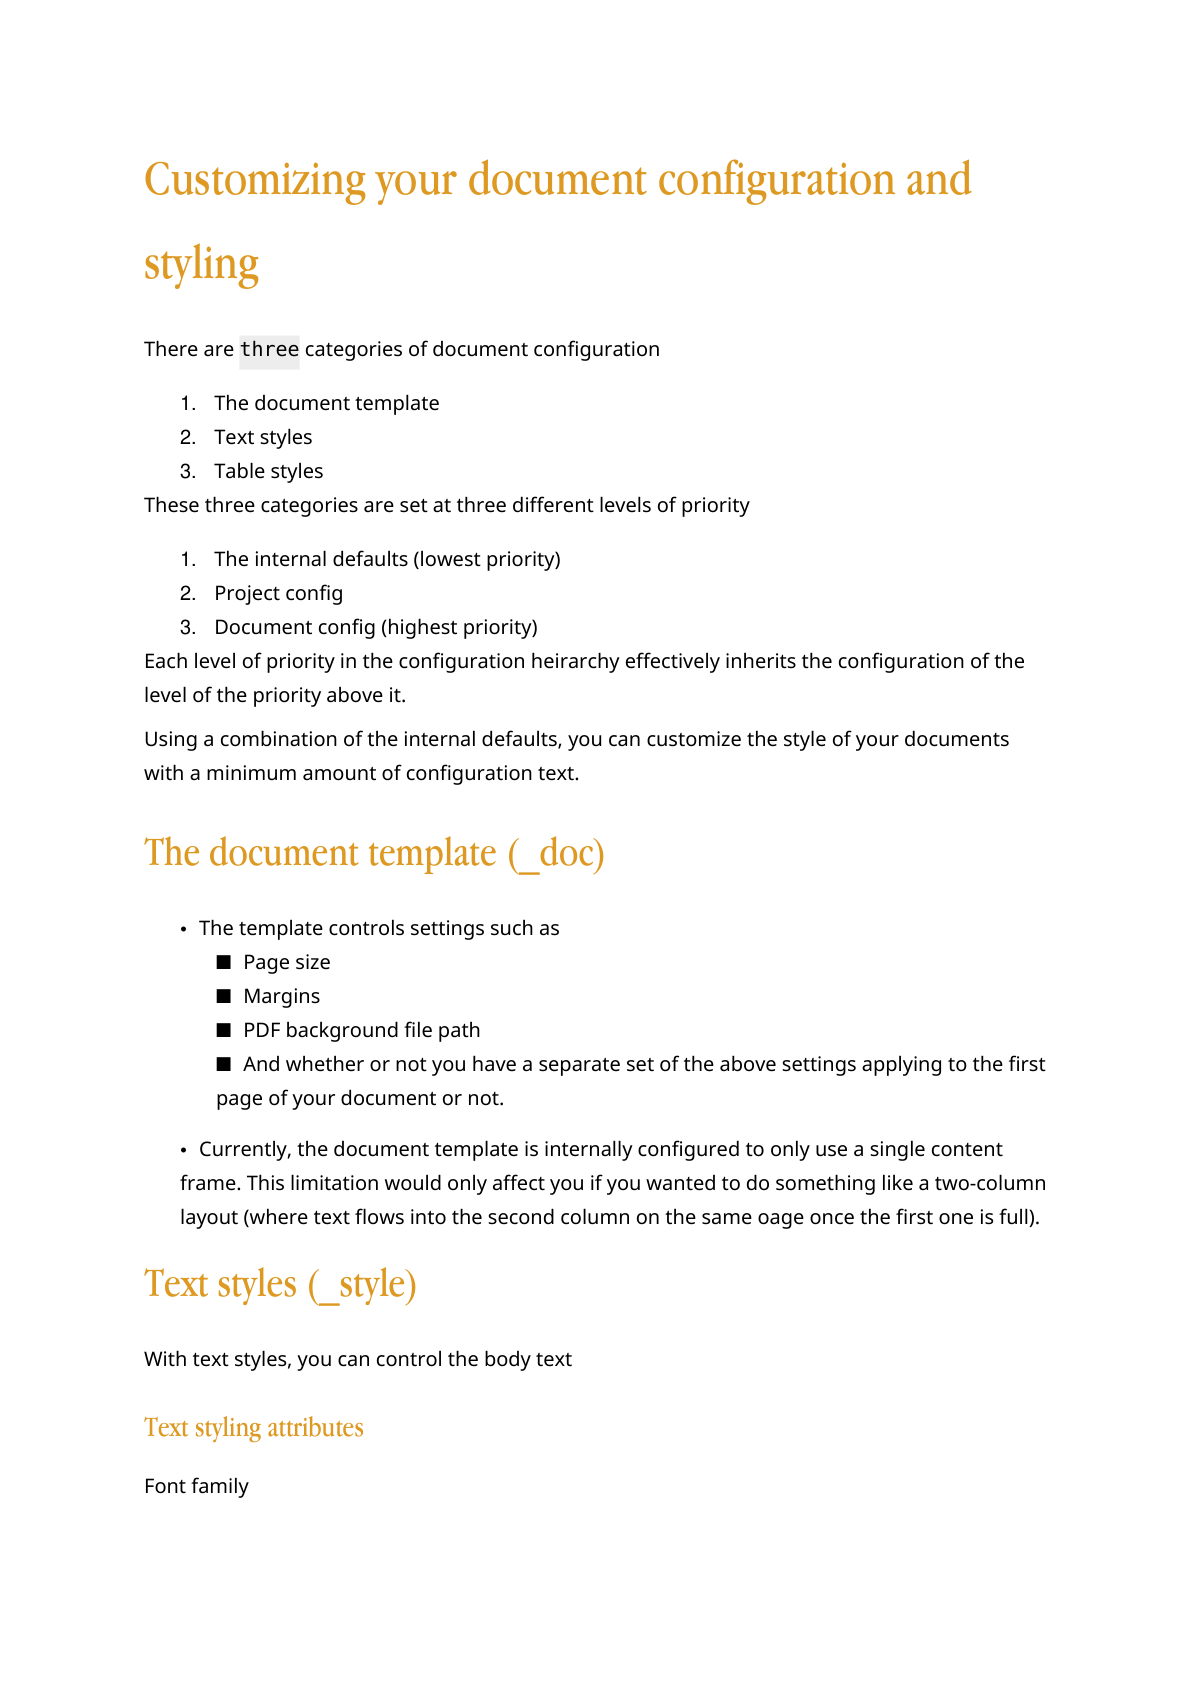
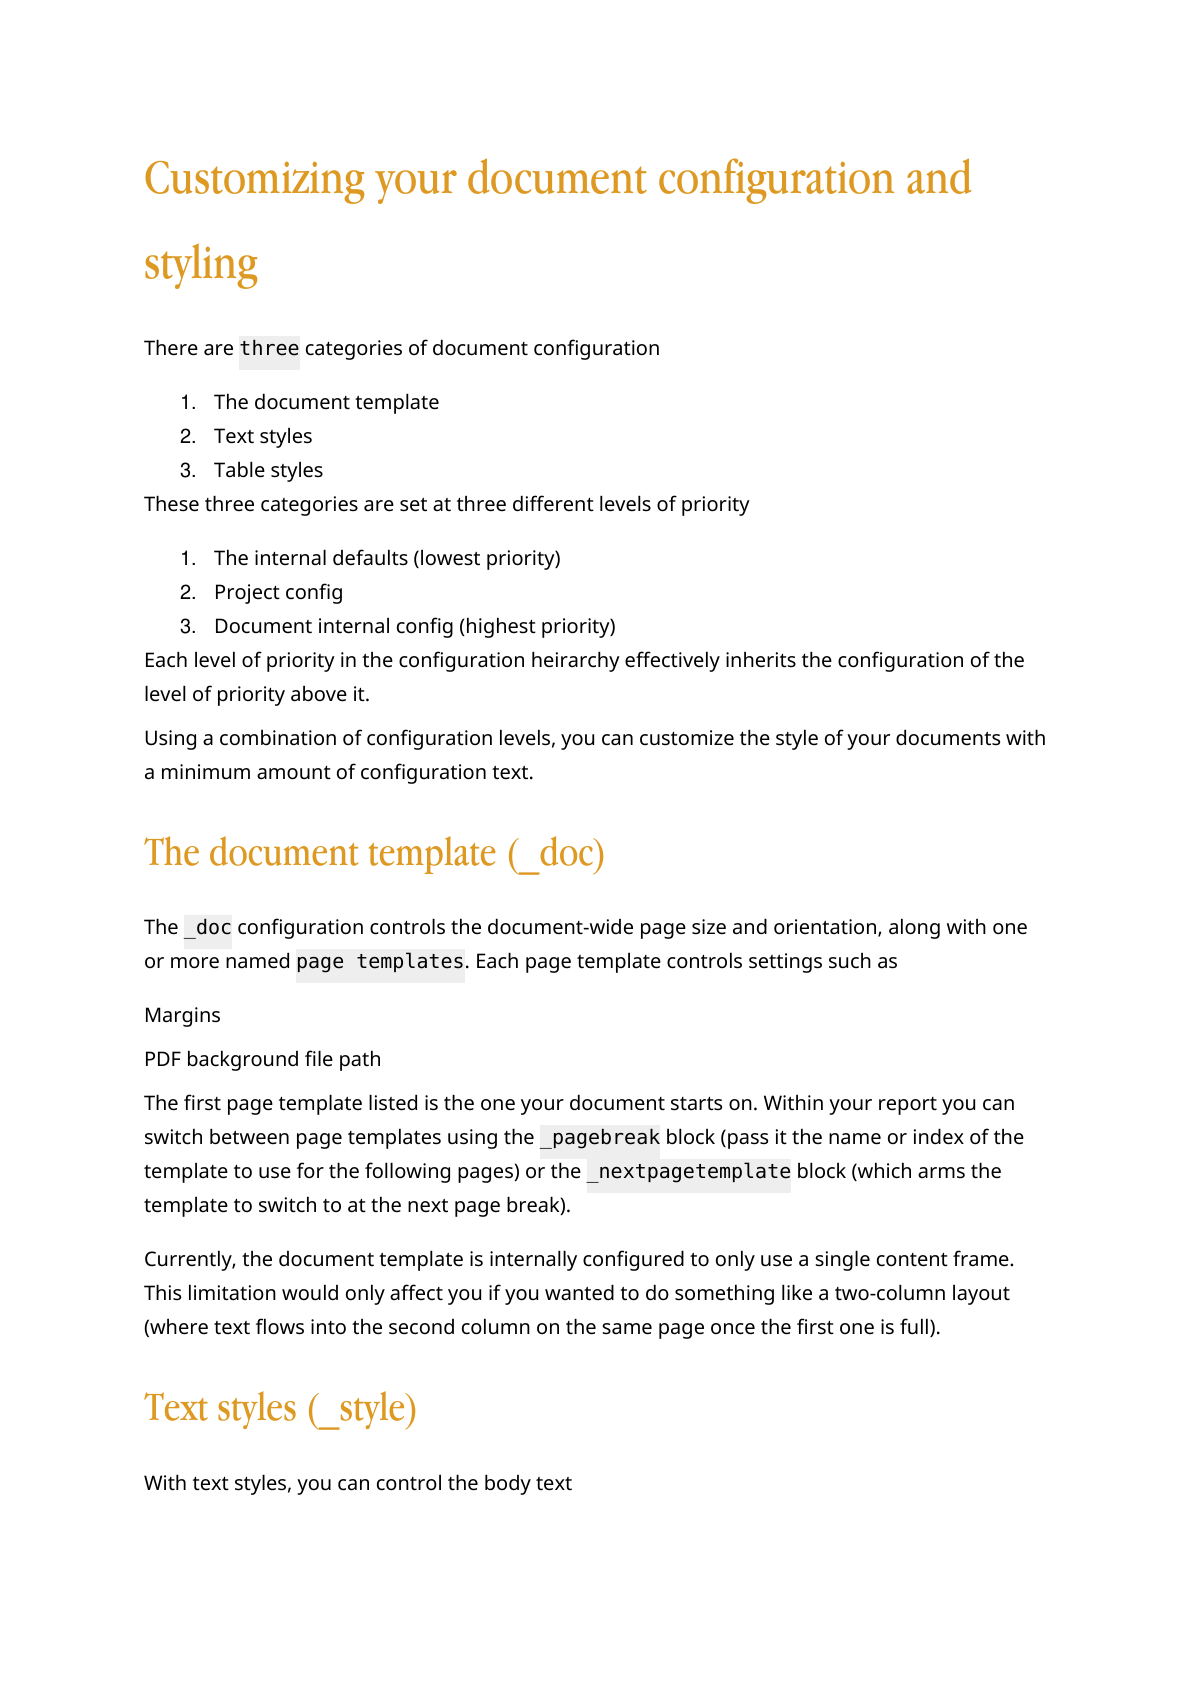
Updated documentation for doc styles and scoped text styles

diff --git a/tests/test_loadconfig.py b/tests/test_loadconfig.py
@@ -40,6 +40,23 @@ def test_load_report_config():
     # assert doc['_doc']['first-page']['cat'] == 'here'
 
 
+def test_load_report_config_empty_file(tmp_path):
+    """An empty config file must be treated as 'no config', not crash.
+
+    load_yaml returns None for an empty file; load_report_config should coalesce
+    that to an empty mapping and fall back to the internal defaults.
+    """
+    empty_config = tmp_path / "doc.ymprint.yml"
+    empty_config.write_text("")
+
+    styles, tablestyles, doc = load_report_config(None, empty_config)
+
+    # Falls back to internal defaults rather than raising AttributeError.
+    assert doc['_doc']['page-size'] == 'a4'
+    assert styles['_style']['body']['size'] == 10
+    assert tablestyles['_tablestyle']['headers']['text']['bold'] is True
+
+
 def test_load_doc_config():
     source_data = {
         "_style": {

diff --git a/src/ymprint/config/config_loaders.py b/src/ymprint/config/config_loaders.py
@@ -38,7 +38,9 @@ def load_report_config(source_data: Optional[dict] = None, report_config_path: O
         raise FileNotFoundError(f"The supplied path for the report_config_path does not exist. Here is what you passed:\n\n{str(report_config_path.resolve())}")
     
     if report_config_path is not None and report_config_path.is_file():
-        config_data = load_yaml(report_config_path)
+        # load_yaml returns None when the file exists but is empty; treat that as
+        # "no config here" rather than crashing on the .get() lookups below.
+        config_data = load_yaml(report_config_path) or {}
         config_styles = config_data.get("_style", {})
         config_tablestyles = config_data.get("_tablestyle", {})
         config_doctemplate = config_data.get("_doc", {})

diff --git a/docs/guide/configuration.md b/docs/guide/configuration.md
@@ -127,7 +127,9 @@ Report:
 (cfg-style)=
 ## Text styles — `_style`
 
-Controls body and heading typography.
+Controls body and heading typography. Alongside the default `body` and `headings` families,
+`_style` can define **named text styles** under `styles` — alternate families you switch
+between within the document with the [`_textstyle`](#style-switching) block.
 
 ```yaml
 _style:
@@ -135,11 +137,13 @@ _style:
     font: Helvetica
     color: "#222222"
     ratio: Major Third      # typographic scale as a musical interval
+    underline: false        # underline every heading
   body:
     font: Helvetica
     color: black
     size: 10                # points
     spacing: 1.7            # line spacing ratio
+    align: left             # left | center | right | justify
     bullets:
       font: Helvetica
       size: 10
@@ -148,6 +152,17 @@ _style:
       spacing: 10
       indent-bullet: 20
       indent-text: 40
+  styles:                   # named styles (see "Named text styles" below)
+    fine-print:
+      body:
+        size: 8
+        color: "#666666"
+    callout:
+      body:
+        size: 12
+        align: center
+      headings:
+        ratio: major third
 ```
 
 ### Headings
@@ -157,6 +172,8 @@ _style:
 | `font` | Heading font family (see [Fonts](../reference/fonts.md)). |
 | `color` | Heading colour, hex or name. |
 | `ratio` | Typographic scale expressed as a **musical interval** — e.g. `minor third`, `major second`, `Major Third`. Larger intervals produce a bigger jump between heading levels. |
+| `align` | Text alignment — `left`, `center`, `right`, or `justify` (default `left`). |
+| `underline` | `true` to underline every heading (default `false`). |
 
 ### Body
 
@@ -166,7 +183,80 @@ _style:
 | `color` | Body text colour. |
 | `size` | Body font size in points. |
 | `spacing` | Line-spacing ratio. |
+| `align` | Text alignment — `left`, `center`, `right`, or `justify` (default `left`). |
+| `underline` | `true` to underline body paragraphs (default `false`). |
 | `bullets` | Bullet styling — glyph hierarchy (`symbols`), colour, size, and indentation of the bullet (`indent-bullet`) and its text (`indent-text`). |
+
+:::{note}
+`align` and `underline` are available on `body`, `headings`, and every named style. Both are
+inherited by named styles like any other field.
+:::
+
+(style-named)=
+### Named text styles
+
+Under `styles`, declare any number of **named families**. Each name maps to a **sparse
+override** of the default family — you specify only what differs, and every unspecified field
+(fonts, colours, bullets, alignment …) is inherited from `body`/`headings`. This mirrors the
+inherit-from-defaults behaviour of the config system itself.
+
+```yaml
+_style:
+  body:     { font: NotoSans, size: 10, color: black, spacing: 1.7 }
+  headings: { font: AppleGaramond, ratio: minor third, color: "#dd9922" }
+  styles:
+    fine-print:               # a smaller, grey family
+      body:
+        size: 8
+        color: "#666666"
+    callout:                  # a larger, centred family with bigger headings
+      body:
+        size: 12
+        align: center
+      headings:
+        ratio: major third
+```
+
+Switching to a named style swaps the **whole family** — body paragraphs, bullet lists, and
+the derived `h1`…`h6` headings all follow the active style. Because heading sizes are derived
+from `body.size` (`body.size × ratio`), a named style with a smaller `body.size` also shrinks
+its headings.
+
+The special name **`default`** is always available and refers to the top-level `body`/
+`headings`. Switching to an undeclared name raises an error.
+
+(style-switching)=
+### Switching text styles
+
+Within your report content, change the active family with the `_textstyle` block:
+
+- `_textstyle: <name>` — activate the named style (or `default`) **from that point onward
+  within its section**, and for every nested descendant. It renders nothing of its own.
+
+`_textstyle` is **scoped to the list it appears in**: it restyles every following sibling in
+that frame plus their descendants, and reverts automatically when the section (list) ends.
+There is no need to switch back manually unless you want to change style *within* the same
+section. (This differs from page templates, which persist across sections until you switch
+them again.)
+
+```yaml
+Legal disclaimer:
+  - _textstyle: fine-print     # applies from here down in THIS section
+  - This paragraph is fine-print.
+  - Sub-clause:
+      - Inherited fine-print (a nested descendant).
+  - _textstyle: default        # switch back within the same section
+  - Back to the default style.
+
+Next section:
+  - Body style again — the disclaimer's scope ended with its list.
+```
+
+:::{note}
+Named styles apply to **paragraphs, headings, and bullet/numbered lists**. Other blocks
+(admonitions, quotes, code, images, tables) keep their own styling regardless of the active
+text style.
+:::
 
 (cfg-tablestyle)=
 ## Table styles — `_tablestyle`

diff --git a/docs/reference/blocks.md b/docs/reference/blocks.md
@@ -38,14 +38,11 @@ The suffix does not affect how the block is executed. It is simply an optional i
 | [`_code`](#block-code) | A non-executable code block. |
 | [`_py`](#block-py) | Execute Python and optionally show the syntax-highlighted source. |
 | [`_loadjson`](#block-loadjson) | Load variables into the document from a JSON file. |
-<<<<<<< HEAD
 | [`_ul`](#block-ul) | An unordered (bulleted) list. |
 | [`_ol`](#block-ol) | An ordered (numbered) list. |
-| [`_pagebreak`](#block-pagebreak) | Force a page break. |
-=======
 | [`_pagebreak`](#block-pagebreak) | Force a page break, optionally switching page template. |
 | [`_nextpagetemplate`](#block-nextpagetemplate) | Arm the page template to switch to at the next break. |
->>>>>>> adb6527 (feat: implement multiple named page templates)
+| [`_textstyle`](#block-textstyle) | Switch the active named text style for the rest of the section. |
 | [`_hrule`](#block-hrule) | A customizable horizontal rule. |
 | [`_spacer`](#block-spacer) | Insert vertical whitespace. |
 
@@ -298,7 +295,7 @@ Recommended actions:
 ## `_pagebreak` — Page breaks
 
 Force a page break. Called with no value, it just breaks the page and keeps the current
-[page template](configuration.md#cfg-doc). Pass the **name or 0-based index** of a page
+[page template](#cfg-doc). Pass the **name or 0-based index** of a page
 template to switch to it for the pages that follow.
 
 ```yaml
@@ -317,7 +314,7 @@ Report:
 (block-nextpagetemplate)=
 ## `_nextpagetemplate` — Switch template at the next break
 
-Arm the [page template](configuration.md#cfg-doc) to switch to at the **next** page break,
+Arm the [page template](#cfg-doc) to switch to at the **next** page break,
 without inserting a break itself. Useful when the break is produced elsewhere (for example,
 by content overflowing the page). Takes the template **name or 0-based index**.
 
@@ -327,6 +324,36 @@ Report:
   - >
     Long content that flows onto a second page, which will use the "body" template.
 ```
+
+---
+
+(block-textstyle)=
+## `_textstyle` — Switch text style
+
+Activate a [named text style](#style-named) for the rest of the section it
+appears in, and for every nested descendant. Takes a style **name** (declared under
+`_style.styles`) or the special name `default`. It renders nothing of its own.
+
+The switch is **scoped to its list**: it restyles every following sibling plus their
+descendants, then reverts automatically when the section ends — no manual switch-back is
+needed unless you want to change style again within the same section. Switching swaps the
+whole family, so body paragraphs, bullet lists, and derived headings all follow the active
+style. An undeclared style name raises an error.
+
+```yaml
+Legal disclaimer:
+  - _textstyle: fine-print     # applies from here down in THIS section
+  - This paragraph is fine-print.
+  - Sub-clause:
+      - Inherited fine-print (a nested descendant).
+  - _textstyle: default        # switch back within the same section
+  - Back to the default style.
+
+Next section:
+  - Body style again — the disclaimer's scope ended with its list.
+```
+
+See [Switching text styles](#style-switching) for the full behaviour.
 
 ---
 

diff --git a/docs/examples.md b/docs/examples.md
@@ -81,6 +81,27 @@ block in the document front matter. See [Configuration](guide/configuration.md).
 
 ---
 
+## Scoped text styles
+
+Define named text styles under `_style.styles`, then switch the active family part-way through
+the document with the `_textstyle` block. Here a `fine-print` style (smaller, grey) and a
+`callout` style (larger, blue, centred) are switched in and out — each swap restyles the body,
+headings, and lists that follow it, and reverts when the section ends. See
+[Configuration → Named text styles](#style-named).
+
+```{literalinclude} ../Examples/Text Styles/report.yml
+:language: yaml
+```
+
+::::{container} ym-single-shot
+```{image} _static/examples/text-styles.png
+:alt: Scoped text styles — default, fine-print, and callout families switched within one document
+:class: ym-page-shot
+```
+::::
+
+---
+
 ## Document variables
 
 Define `_vars`, render them into text with Jinja (`{{ "{{var}}" }}`), and reach into nested
